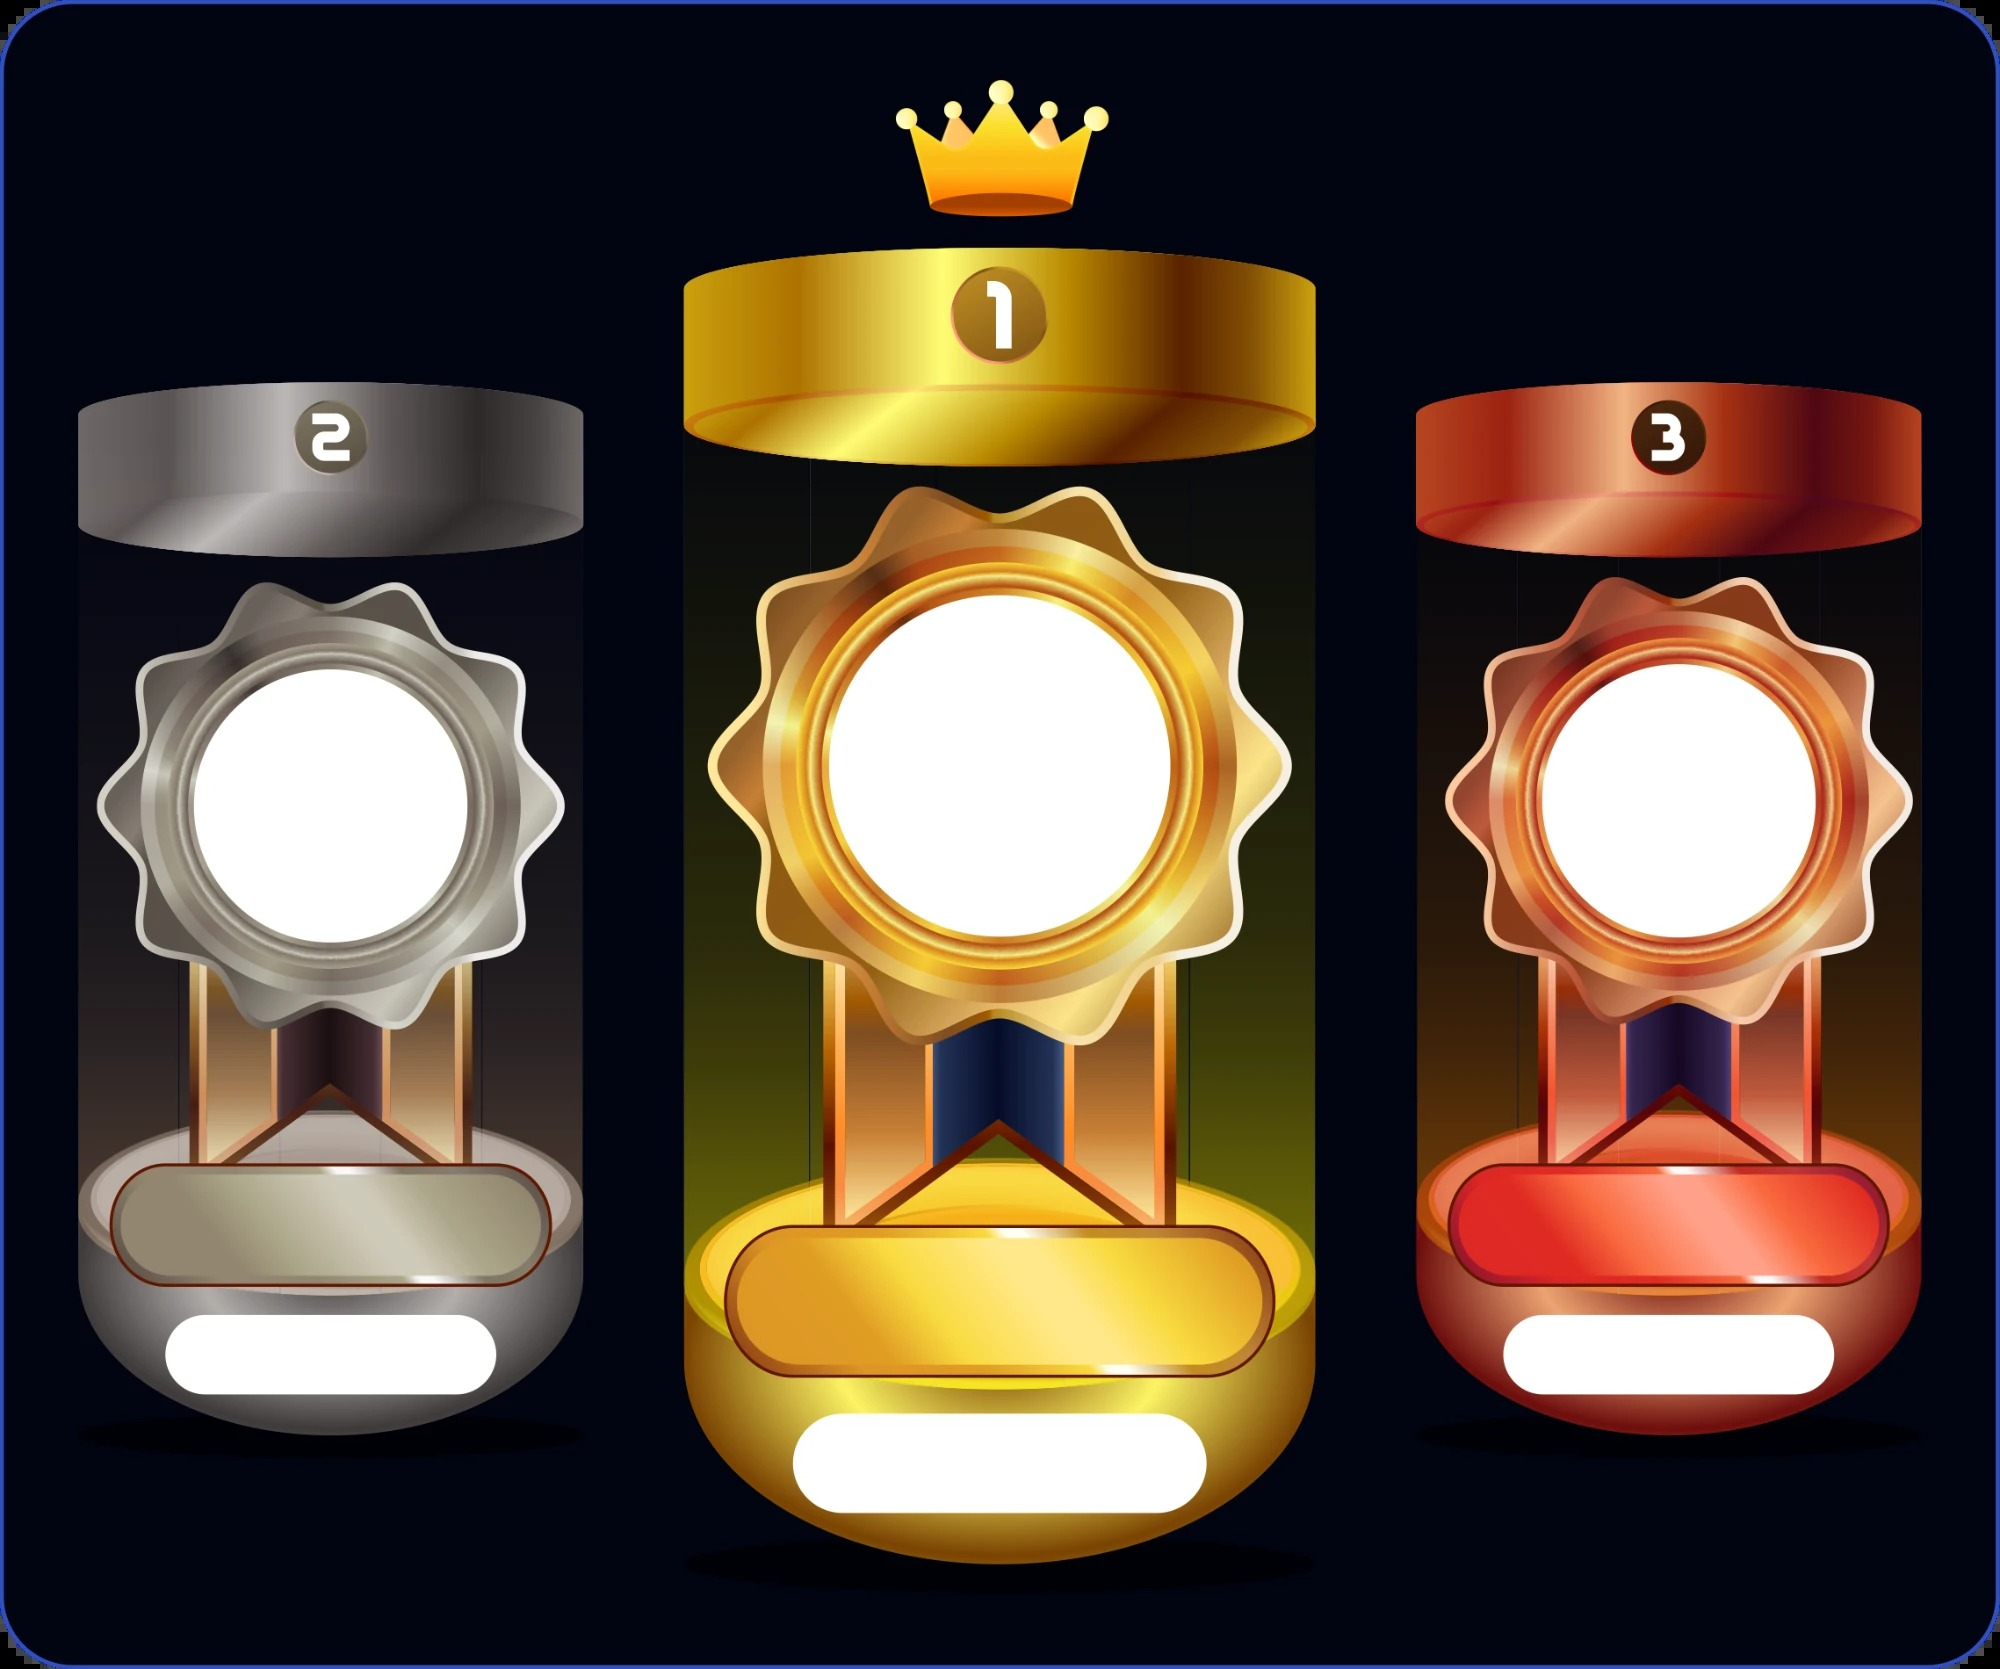
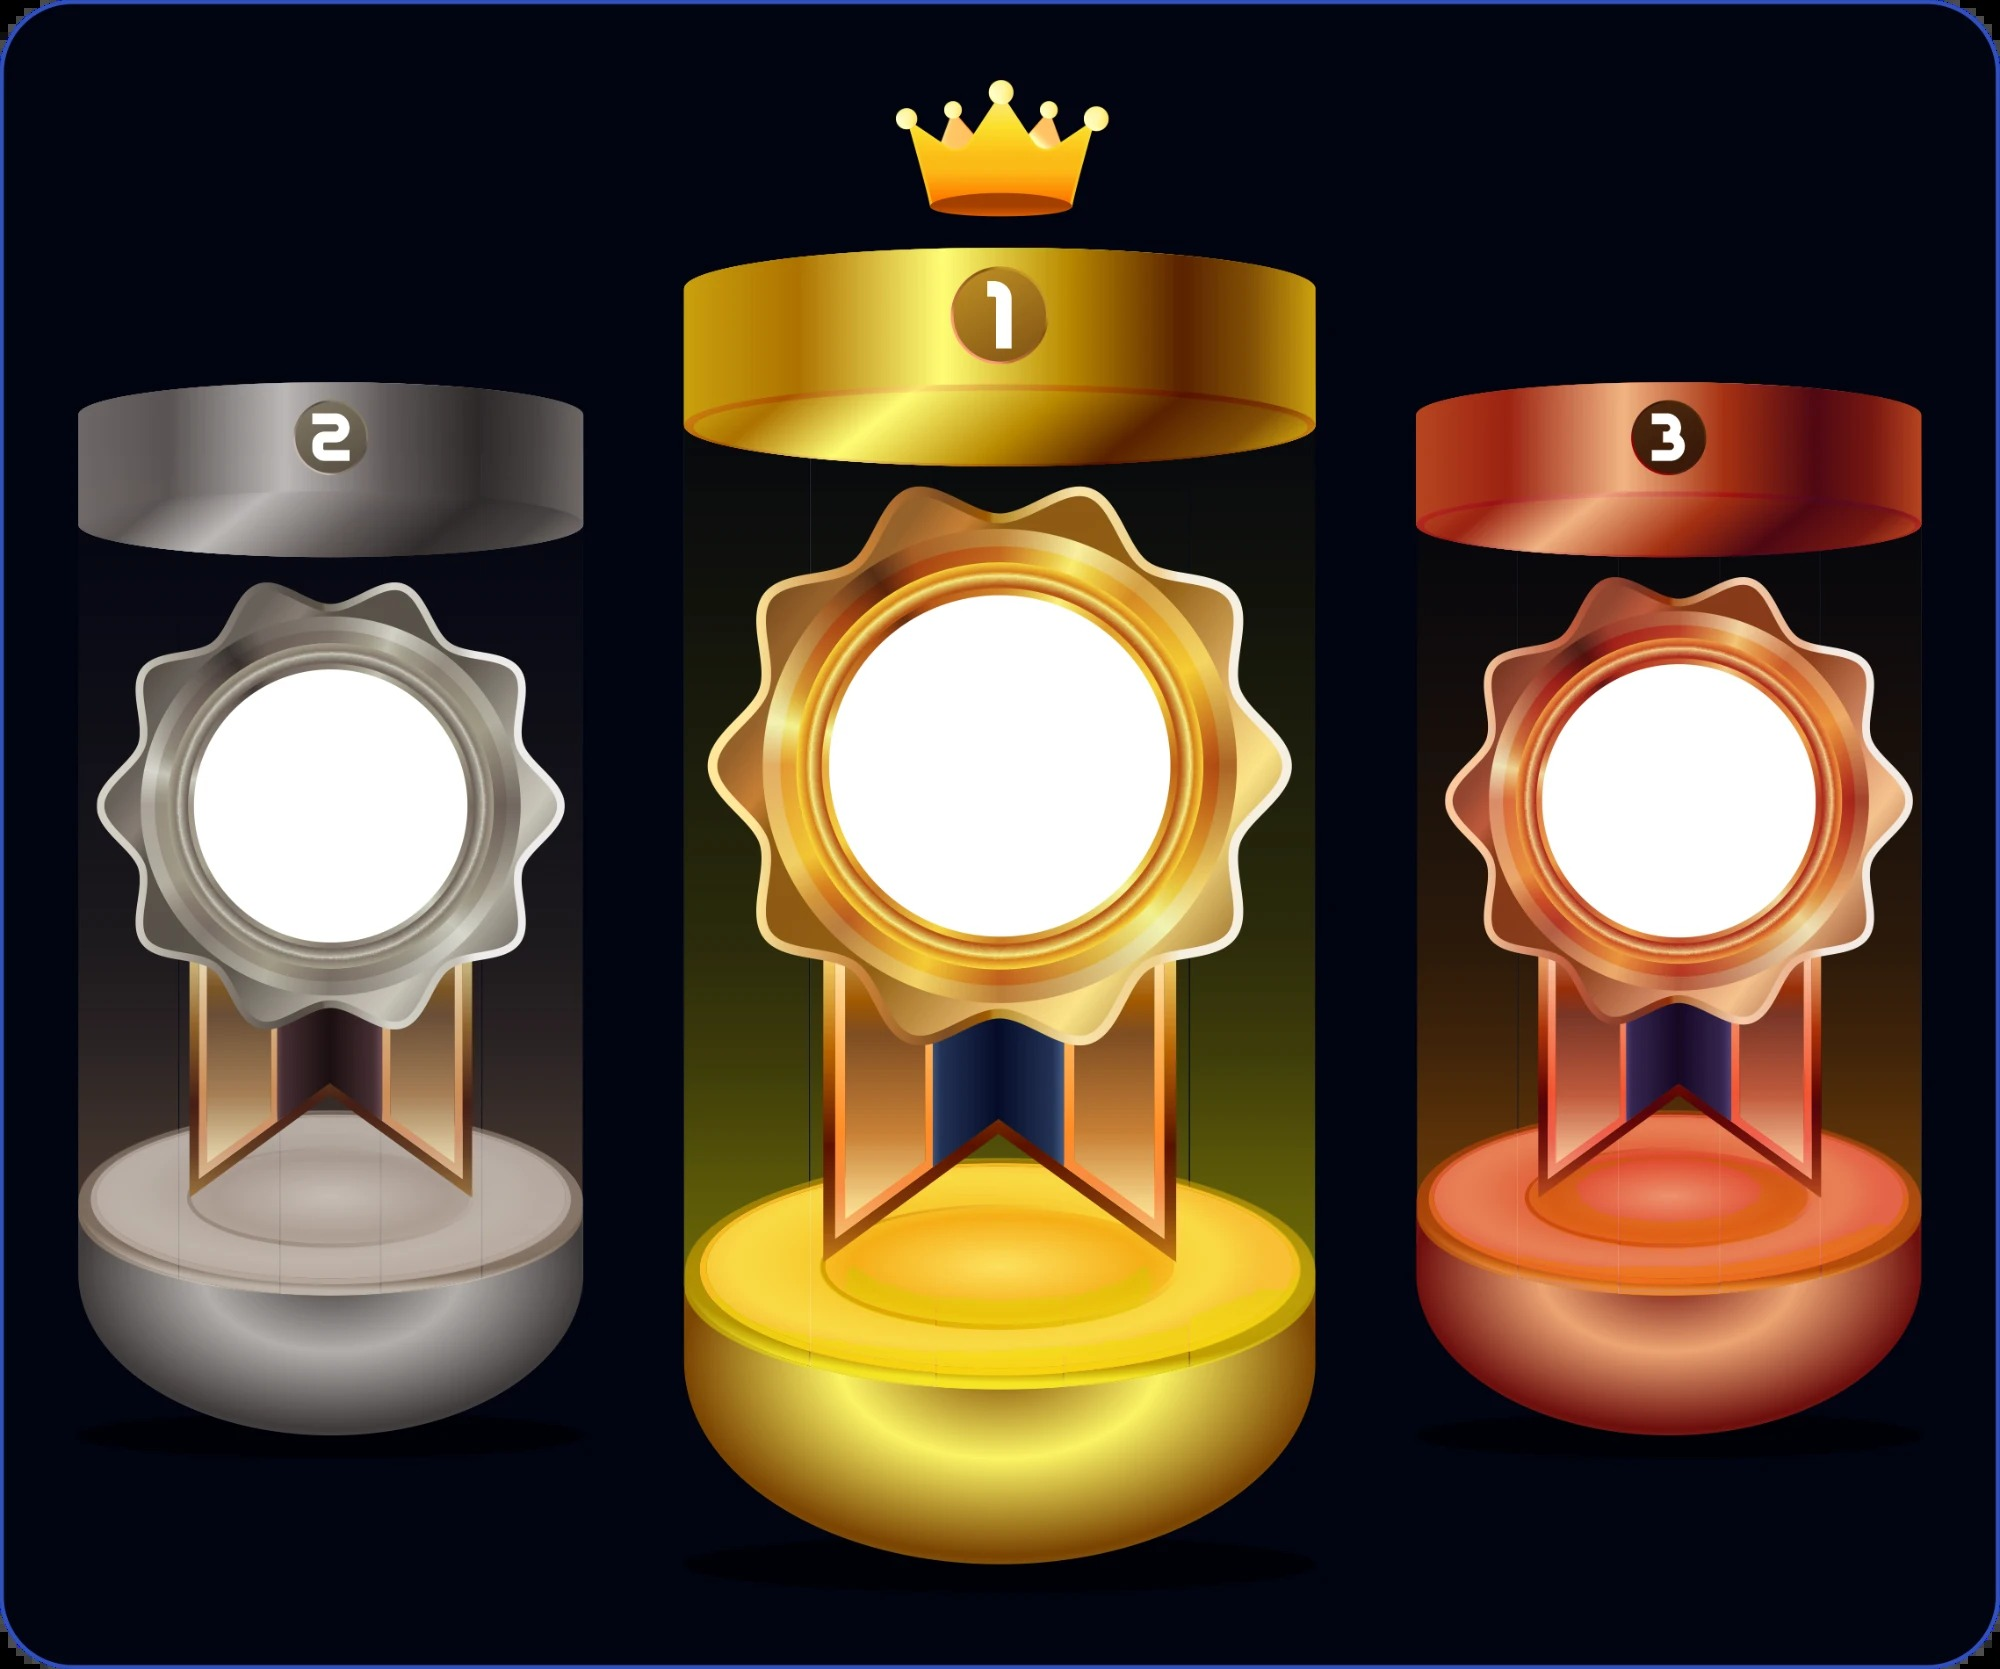
Novo background sem cápsulas, texto branco de volta, círculos re-escaneados e pódio split nas categorias cadastradas (#58)
* Generalize BIOSINTÉTICA into an ADM-creatable partnership category system

Adds "Gerenciar Categorias" (ADM > Categorias): create a new partnership
category with its own icon and eligible sector(s), which automatically
gets the same mechanics BIOSINTÉTICA already has — independent groups,
each with its own keyword-classified product list for identifying and
scoring sales, its own Ranking/Grupos/Pontos screen at
/categoria-parceria/:chave, and a dedicated sidebar button.

Groups are fully dynamic (no fixed G1-G4): an ADM names each group when
creating it, and it's just a bio_group_goals upsert with zeroed goals —
no separate "create group" endpoint needed. Per-group weight for these
new categories lives in bio_group_goals.peso (scoped by category_type_id
+ grupo) instead of store_settings.bio_weights, since that JSON blob is
shared per-store and would collide/mix scoring across categories.
BIOSINTÉTICA itself is untouched and keeps using bio_weights.

Migrations: drop the G1-G4 CHECK constraints on bio_groups/bio_group_goals
(grupo is now free text), add bio_group_goals.peso, and rescope its unique
constraint to (store_id, category_type_id, grupo) so two categories can
each have a same-named group without colliding.

Category deletion is intentionally not included — it's covered by the
still-pending standing rule (task #125) requiring ADM login/password
re-confirmation before any deletion in the system.
[…]

Changed region(s): [[0.341, 0.7166, 0.651, 0.9347], [0.713, 0.6854, 0.961, 0.8412], [0.031, 0.6854, 0.279, 0.8412]]

diff --git a/src/components/ranking/PodiumSplit.tsx b/src/components/ranking/PodiumSplit.tsx
@@ -5,30 +5,34 @@ import type { StaircaseRow } from './PodiumStaircase';
 // podium artwork on the left, positions 4-15 as a two-column pill grid on
 // the right), toggled on via store_settings.ranking_moderno alongside the
 // older PodiumStaircase design it doesn't replace. The podium image is a
-// fixed background (silver/gold/bronze pedestals, crown baked in) — the
-// system only overlays each collaborator's photo into that image's own
-// blank white circle, at the exact position/size measured on the source
-// artwork (percentages of the image's own width/height, so they stay
-// correct at any render size as long as the container keeps the image's
-// aspect ratio — see `aspectRatio` below).
+// fixed background (silver/gold/bronze pedestals, crown baked in, no
+// baked-in text placeholders) — the system overlays each collaborator's
+// photo into the image's own blank white circle, plus the value/name as
+// white text in the blank area below the ribbon, all at the exact
+// position/size measured on the source artwork (percentages of the
+// image's own width/height, so they stay correct at any render size as
+// long as the container keeps the image's aspect ratio — see
+// `aspectRatio` below).
 const PODIUM_BG_RATIO = 2000 / 1669;
 const CIRCLE_SPOTS: Record<number, { left: number; top: number; diameter: number }> = {
-  0: { left: 52.48, top: 45.84, diameter: 21.1 }, // 1º — centro
-  1: { left: 18.9, top: 48.29, diameter: 18.3 }, // 2º — esquerda
-  2: { left: 86.28, top: 48.17, diameter: 17.5 }, // 3º — direita
+  0: { left: 49.98, top: 45.39, diameter: 16.95 }, // 1º — centro
+  1: { left: 18.9, top: 48.29, diameter: 18.4 }, // 2º — esquerda
+  2: { left: 86.12, top: 47.66, diameter: 17.75 }, // 3º — direita
 };
-// Value/name text fitted inside the two capsule cutouts baked into each
-// pedestal of the reference artwork (wide capsule above for the value,
-// smaller capsule below for the name) — measured the same way as
-// CIRCLE_SPOTS. Font sizes are in cqw so they scale with the podium
-// container's rendered width via CSS container queries.
+// Value/name text positioned in the blank pedestal area below the ribbon
+// — measured the same way as CIRCLE_SPOTS. Rendered in white with a drop
+// shadow (no capsule backdrop in this artwork) so it reads against any of
+// the three pedestal colors. Font sizes are in cqw so they scale with the
+// podium container's rendered width via CSS container queries; value
+// width/size are generous enough that a full "R$ 1.234,56" never
+// truncates.
 const TEXT_SPOTS: Record<
   number,
   { centerLeft: number; valueTop: number; nomeTop: number; valueSize: number; nomeSize: number; valueMaxWidth: number; nomeMaxWidth: number }
 > = {
-  0: { centerLeft: 49.98, valueTop: 77.95, nomeTop: 87.4, valueSize: 4.4, nomeSize: 2.7, valueMaxWidth: 29, nomeMaxWidth: 18 }, // 1º — centro
-  1: { centerLeft: 16.53, valueTop: 73.4, nomeTop: 81.13, valueSize: 3.8, nomeSize: 2.3, valueMaxWidth: 22, nomeMaxWidth: 15 }, // 2º — esquerda
-  2: { centerLeft: 83.43, valueTop: 73.37, nomeTop: 81.13, valueSize: 3.8, nomeSize: 2.3, valueMaxWidth: 23, nomeMaxWidth: 15 }, // 3º — direita
+  0: { centerLeft: 49.98, valueTop: 77.95, nomeTop: 87.4, valueSize: 4.2, nomeSize: 2.7, valueMaxWidth: 32, nomeMaxWidth: 20 }, // 1º — centro
+  1: { centerLeft: 16.53, valueTop: 73.4, nomeTop: 81.13, valueSize: 3.6, nomeSize: 2.3, valueMaxWidth: 25, nomeMaxWidth: 17 }, // 2º — esquerda
+  2: { centerLeft: 83.43, valueTop: 73.37, nomeTop: 81.13, valueSize: 3.6, nomeSize: 2.3, valueMaxWidth: 25, nomeMaxWidth: 17 }, // 3º — direita
 };
 const MAX_LISTED = 15;
 const COL_SIZE = 6;
@@ -119,6 +123,7 @@ function PodiumText<T extends StaircaseRow>({
 }) {
   const spot = TEXT_SPOTS[rank];
   if (!spot) return null;
+  const textShadow = '0 1px 4px rgba(0,0,0,.75), 0 0 2px rgba(0,0,0,.6)';
   return (
     <>
       <div
@@ -135,7 +140,8 @@ function PodiumText<T extends StaircaseRow>({
           fontFamily: "'Orbitron', sans-serif",
           fontWeight: 800,
           fontSize: `${spot.valueSize}cqw`,
-          color: '#1a1400',
+          color: '#fff',
+          textShadow,
         }}
       >
         {formatValue(getValue(row))}
@@ -154,7 +160,8 @@ function PodiumText<T extends StaircaseRow>({
           textTransform: 'uppercase',
           fontWeight: 700,
           fontSize: `${spot.nomeSize}cqw`,
-          color: '#1a1400',
+          color: '#fff',
+          textShadow,
         }}
       >
         {row.apelido || row.nome}

diff --git a/src/routes/category-type/CategoryTypePage.tsx b/src/routes/category-type/CategoryTypePage.tsx
@@ -4,14 +4,16 @@ import { useAuth } from '../../auth/AuthContext';
 import { SimpleSheetImportPanel } from '../../components/admin/SimpleSheetImportPanel';
 import { TagIcon } from '../../components/icons/NavIcons';
 import { MetricsFilterBar, type MfbStatCard } from '../../components/MetricsFilterBar';
+import { PodiumSplit } from '../../components/ranking/PodiumSplit';
 import { PodiumStaircase } from '../../components/ranking/PodiumStaircase';
+import { RankingModeToggle } from '../../components/ranking/RankingModeToggle';
 import { auditBioOutsideBalcao, computeBioSummary, groupBioRows, type BioSummaryRow } from '../../lib/business/bio';
 import { classifyBio } from '../../lib/business/classification';
 import { diasRestantesNoMes } from '../../lib/business/goals';
 import type { BioGroupGoal, BioWeights } from '../../lib/business/types';
 import { fmtDateBR } from '../../lib/format';
-import { useAddBioProduct, useBulkInsertBioProducts, useDeleteBioProduct, useUpdateBioGroupGoal } from '../../lib/mutations';
-import { useBioGroupGoals, useBioGroups, useCategoryTypes, useCollaborators, useSales } from '../../lib/queries';
+import { useAddBioProduct, useBulkInsertBioProducts, useDeleteBioProduct, useUpdateBioGroupGoal, useUpdateStoreSettings } from '../../lib/mutations';
+import { useBioGroupGoals, useBioGroups, useCategoryTypes, useCollaborators, useSales, useStoreSettings } from '../../lib/queries';
 import { useDateRange } from '../DateRangeContext';
 
 /** Generic screen for any ADM-created partnership category (Gerenciar
@@ -30,6 +32,8 @@ export function CategoryTypePage() {
   const { data: collaborators } = useCollaborators();
   const { data: sales } = useSales();
   const { data: categoryTypes } = useCategoryTypes();
+  const { data: storeSettings } = useStoreSettings();
+  const updateStoreSettings = useUpdateStoreSettings(profile?.store_id);
   const categoryType = categoryTypes?.find((c) => c.chave === chave);
   const { data: bioGroupRows } = useBioGroups(categoryType?.id);
   const { data: groupGoals } = useBioGroupGoals(categoryType?.id);
@@ -49,7 +53,7 @@ export function CategoryTypePage() {
     );
   }
 
-  if (!collaborators || !sales || !categoryType || !bioGroupRows || !groupGoals) {
+  if (!collaborators || !sales || !categoryType || !bioGroupRows || !groupGoals || !storeSettings) {
     return <div className="text-sm text-slate-500 p-6">Carregando…</div>;
   }
 
@@ -195,6 +199,8 @@ export function CategoryTypePage() {
           <div className="text-sm text-slate-500 py-4 text-center">
             Nenhum colaborador cadastrado no(s) setor(es) elegível(is) desta categoria.
           </div>
+        ) : storeSettings.ranking_moderno ? (
+          <PodiumSplit ranking={ranking.filter((r) => r.itens > 0)} getValue={(r) => r.pontos} formatValue={(v) => `${v.toFixed(1)} pts`} />
         ) : (
           <PodiumStaircase
             ranking={ranking.filter((r) => r.itens > 0)}
@@ -203,6 +209,14 @@ export function CategoryTypePage() {
             getSub={(r) => `${r.itens} un.`}
             variant="escadinha"
           />
+        )}
+        {elegiveisMatriculas.size > 0 && (
+          <div className="flex justify-end mt-3">
+            <RankingModeToggle
+              on={storeSettings.ranking_moderno}
+              onToggle={() => updateStoreSettings.mutate({ ranking_moderno: !storeSettings.ranking_moderno })}
+            />
+          </div>
         )}
       </div>
 
